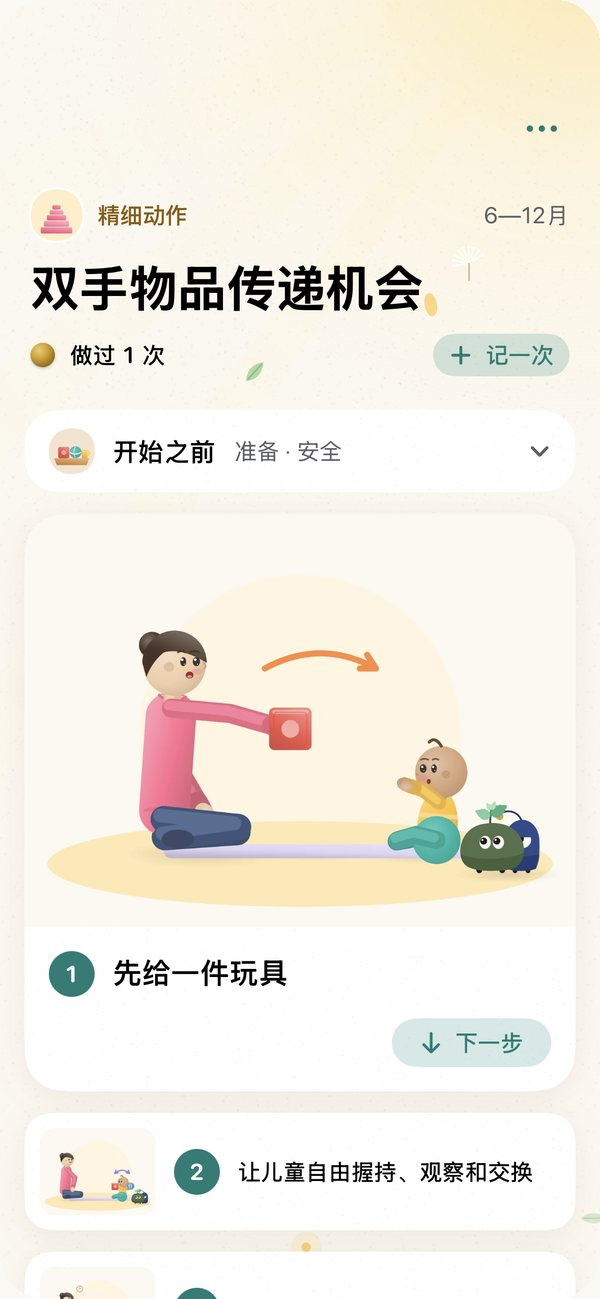
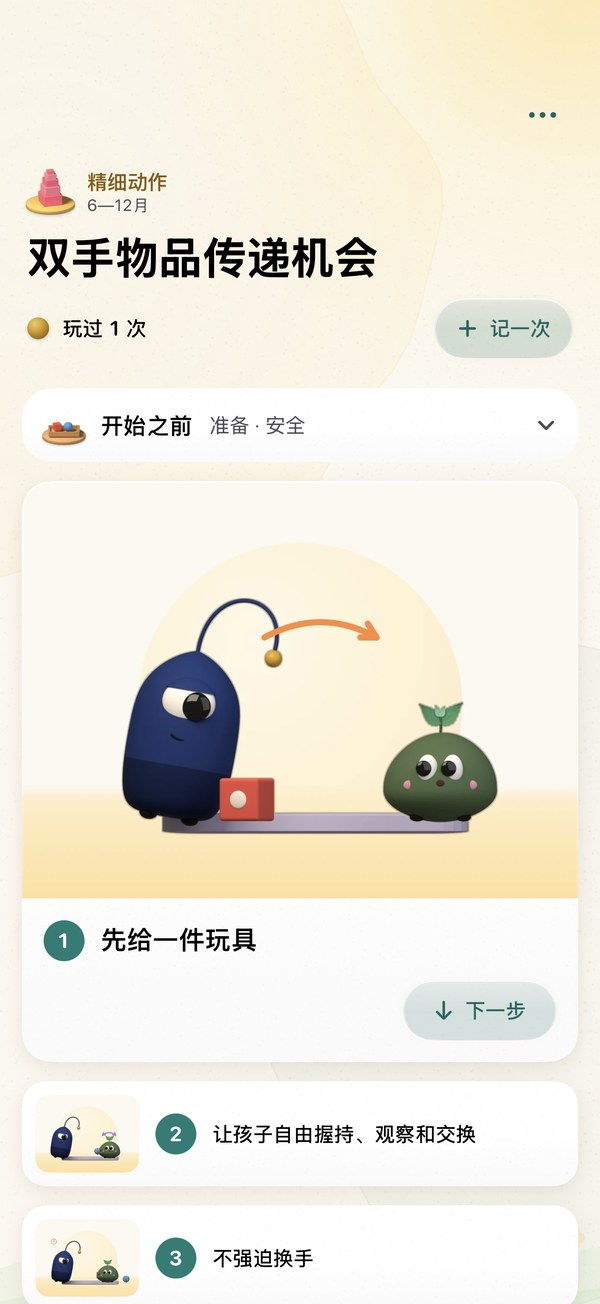
chore: update README & iOS screenshots, bump iOS to 1.0.1, add cloud env setup

diff --git a/README.md b/README.md
@@ -19,51 +19,51 @@
 
 | | 在哪里 | 不做什么 |
 |---|---|---|
-| **一起玩** | 本周的架子：这一周可以摸索的几件教具，点开就是一步步的插画、准备什么、什么时候停下 | 不布置任务，不设打卡 |
-| **看他长大** | 0–36 个月，一个月一站，共 37 站；成长滚轮、成长册、WHO 生长曲线 | 不比较，不做发育诊断 |
-| **记下来**（可选） | 亲喂、瓶喂、睡眠、尿布一点即记，计时显示在锁屏上；亲喂时长、瓶喂奶量、睡眠的统计 | 不上传，不需要账号 |
+| **一起玩** | **今天一起玩**：每天推荐一个这个月适合的活动，第 1 步的插画一眼可见，点开就是一步步的图文、准备什么、什么时候停下；这周另有两三个备选活动，每周自动轮换 | 不布置任务，不设打卡 |
+| **看他长大** | 0–36 个月，一个月一站，共 37 站；蒙氏串珠链成长地图、成长册、WHO 生长曲线、接种与儿保 | 不比较，不做发育诊断 |
+| **记下来**（可选） | 亲喂、瓶喂、睡眠、尿布、辅食、体温、第一次等一点即记，计时显示在锁屏与灵动岛上；亲喂分侧时长、瓶喂奶量、睡眠统计 | 不上传，不需要账号 |
 
 满 36 个月是最后一站，却不是终点：**故事仍在继续。**
 
 ## Moss 与 Otto
 
-两位伙伴不说话，只用眼神和动作陪伴。Moss（摸索）是孩子的好奇心：苔绿色，两只眼睛，头顶薄荷芽，什么都想先摸一下。Otto（台灯）是大人的陪伴：深蓝色，一只大眼睛，头顶一颗金色灯珠，专注又耐心，Moss 摸到哪里，他就把灯往哪里偏一点。家长可以选任意一位作为主伙伴，两位功能完全相同。完整设定见 [docs/IP.md](docs/IP.md)。
+两位伙伴不说话，只用眼神和动作陪伴。Moss（摸索）是孩子的好奇心：苔绿色软石，两只眼睛，头顶一片薄荷芽，什么都想先摸一下。Otto（台灯）是大人的陪伴：深蓝色，一只大眼睛，头顶一颗金色灯珠，专注又耐心，Moss 摸到哪里，他就把灯往哪里偏一点。家长可以选任意一位作为主伙伴，两位功能完全相同。完整设定见 [docs/IP.md](docs/IP.md)。
 
 ---
 
 ## iOS 版
 
-为 iPhone 原生构建（SwiftUI，iOS 26 及以上，液态玻璃设计语言），目前在 TestFlight 测试，公开测试与 App Store 上架准备中。
+为 iPhone 原生构建（SwiftUI，iOS 26 及以上，液态玻璃设计语言 + 3D 哑光软胶画风），**v1.0 已上架 App Store**（一次买断，无广告、无订阅；App Store 链接待补充）。
 
 <p align="center">
   <img src="docs/images/ios/1_opening.jpg" width="31%" alt="首次打开：灯亮起，Moss 在灯下摸索">
-  <img src="docs/images/ios/2_home.jpg" width="31%" alt="本月：月龄与本周的架子">
-  <img src="docs/images/ios/3_play.jpg" width="31%" alt="活动：一步步的插画，Moss 与 Otto 在旁边看">
+  <img src="docs/images/ios/2_home.jpg" width="31%" alt="首页：月龄与今天一起玩">
+  <img src="docs/images/ios/3_play.jpg" width="31%" alt="活动：一步步的 3D 软胶插画，Moss 与 Otto 在旁边看">
 </p>
 <p align="center">
-  <img src="docs/images/ios/4_story.jpg" width="31%" alt="摸索台灯的故事">
-  <img src="docs/images/ios/5_journal.jpg" width="31%" alt="记录：一天的串珠与时间线">
-  <img src="docs/images/ios/6_night.jpg" width="31%" alt="夜灯：夜里喂奶的计时">
+  <img src="docs/images/ios/4_month.jpg" width="31%" alt="月份：0–36 个月要点、活动与接种儿保">
+  <img src="docs/images/ios/5_journal.jpg" width="31%" alt="记录：立体贴纸、一天串珠与合并时间线">
+  <img src="docs/images/ios/6_night.jpg" width="31%" alt="夜灯：夜里亲喂左右侧计时">
 </p>
 
 | 截图 | 说明 |
 |---|---|
-| 首次打开 | 没有文字的开场：Otto 的灯亮起，Moss 在灯下醒来，摸了摸套圈，转头看 Otto。约四秒，只播一次，随时可跳过；开启「减弱动态效果」时静止 |
-| 本月 | 孩子满几个月几天；**本周的架子**是首页的核心：木头矮柜上的托盘、纸签上的名字，每玩一次多一颗金珠；之后是这个月的其他活动、这个月的要点与专题 |
-| 活动 | 开始之前（准备与安全）、一步步的插画、做的时候看什么、什么时候停下；Moss 与 Otto 在每一幅插画里陪着看，做完最后一步时一起笑 |
-| 故事 | 「关于摸索台灯」里讲述名字的含义、能做的三件事，以及 36 个月以后故事仍在继续 |
-| 记录（可选） | 一点即记，时间可精确选择；亲喂左右侧分别计时，可暂停、换边；瓶喂精确到 5 毫升；锁屏实时活动与灵动岛、桌面小组件 |
-| 夜灯 | 晚上自动变成一盏小夜灯：深蓝底、琥珀色光，Otto 的灯珠微亮 |
+| 首次打开 | 没有文字的三幕开场：Otto 的灯亮起，Moss 在灯下醒来，摸了摸套圈，转头看 Otto。约四秒，只播一次，随时可跳过；开启「减弱动态效果」时静止 |
+| 首页 | 孩子满几个月几天、本月接种与儿保进度，以及核心卡片**今天一起玩**：第 1 步插画一眼可见，支持「换一个」与「这周还有」自动轮换；轻点卡片边缘的 Moss 与 Otto 三次可进入「摸索台灯的故事」 |
+| 活动 | 开始之前（准备与安全）、折叠式逐步 3D 软胶插画（46 个活动、146 幅步骤图）、做的时候看什么、什么时候停下；做完最后一步自动记一次 |
+| 月份 | 0–36 个月 37 站与蒙氏串珠链成长地图：每月关注与留意事项、适龄活动、可以留意清单、接种与儿保（已核对 2026 年国家免疫规划）、六个发展领域与成长册 |
+| 记录（可选） | 立体贴纸一点即记，时间精确到分钟；亲喂左右侧分别计时并自动合并为一顿，支持暂停、换边与撤销；瓶喂精确到 5 毫升；支持锁屏实时活动、灵动岛、桌面小组件与「第一次」里程碑 |
+| 夜灯 | 晚上自动切换为小夜灯：深蓝底、暖琥珀光晕与柔光数字，Otto 的灯珠微亮，夜间减少动态打扰 |
 
-**隐私**：不联网、不需要账号，不含广告、统计或第三方 SDK。CI 在模拟器测试中记录应用进程的网络活动（`ios_network.txt`），用来核查这一点。
+**隐私与合规**：完全离线、不联网、不需要账号，不含广告、统计或第三方 SDK；首次打开提供同等权重的「同意 / 不同意」确认卡（不同意仍可浏览全部育儿内容），支持应用内撤回同意、面容 ID 应用锁、iOS 数据保护与本地 JSON/CSV/Markdown 导出。CI 在模拟器测试中持续采集应用进程网络日志（`ios_network.txt`）核查零联网。
 
-**开发**：`ios/project.yml`（XcodeGen）；CI `.github/workflows/ios.yml` 运行单元测试、截图测试与无障碍审查，截图发布到 `screens-ios` 分支，并上传 TestFlight。设计说明见 [ios/DESIGN.md](ios/DESIGN.md)，路线图见 [ios/ROADMAP.md](ios/ROADMAP.md)。
+**开发**：`ios/project.yml`（XcodeGen）；CI [`.github/workflows/ios.yml`](.github/workflows/ios.yml) 运行单元测试、截图测试（含 6.9 英寸 App Store 截图产物）、无障碍审查与滚动性能测试，并在合入 `main` 时自动上传 TestFlight。设计说明见 [ios/DESIGN.md](ios/DESIGN.md)，合规对照表见 [ios/COMPLIANCE.md](ios/COMPLIANCE.md)，路线图见 [ios/ROADMAP.md](ios/ROADMAP.md)。
 
 ---
 
 ## 安卓版
 
-适用于 Android 8.0 及以上。[下载最新版本](https://github.com/mjuvdeysii/mossling/releases/latest)。
+适用于 Android 8.0 及以上，已更新至 **v1.5.0**（原生 Jetpack Compose + Material Design 3）。[下载最新版本](https://github.com/mjuvdeysii/mossling/releases/latest)。
 
 <p align="center">
   <img src="docs/images/android/1_welcome.jpg" width="31%" alt="欢迎页">
@@ -78,18 +78,18 @@
 
 | 截图 | 说明 |
 |---|---|
-| 欢迎页 | 孩子摸索，大人点灯；填写出生日期，或先看看 |
-| 本周的架子 | 这一周放上架子的几件教具，以及怎么用这个架子 |
-| 教具 | 蒙台梭利式的家庭教具，按月龄出现 |
-| 手帐（可选） | 亲喂、瓶喂（精确到 5 毫升）、睡眠、尿布等；通知栏计时，可暂停、换边；桌面小组件 |
-| 统计 | 喂养次数、亲喂时长、睡眠与尿布 |
-| 生长曲线 | 世界卫生组织儿童生长标准（2006），百分位带与中位数 |
+| 欢迎页 | 孩子摸索，大人点灯；无字三镜头开场、填写出生日期或先看看 |
+| 本周的架子 | 横向顺滑木质托盘展示本周自动轮换的活动，支持「还没玩过」与六大领域筛选 |
+| 教具 | 46 个蒙台梭利式家庭活动、146 幅分步插画，支持全屏「跟着做」手势翻步与屏幕常亮 |
+| 手帐（可选） | 亲喂分侧计时、瓶喂（精确到 5 毫升）、睡眠、尿布、体温就医提示与「第一次」里程碑；通知栏计时与桌面小组件 |
+| 统计 | 喂养次数、亲喂时长、睡眠与尿布趋势，以及按类别筛选的时间线 |
+| 生长曲线 | 世界卫生组织儿童生长标准（2006），支持「当前阶段 / 0–36 月全貌」切换与交互式点位检视 |
 
-此外还有「今天」（月龄、今天的一个活动）、「成长」（0–36 个月串珠、每月要点、成长地图、专题与搜索）和 46 个家庭活动、146 幅分步插画。
+此外还有「今天」（照护状态胶囊、今日一件事）、「成长」（本月 / 地图 / 专题三段式工作台、成长册画册与时间轴双模式）与按六大领域发现的搜索页。
 
 **隐私**：不需要账号，不收集、不上传任何数据；只在用户主动点「检查更新」时联网。
 
-**开发**：`gradle :app:assembleDebug`（Gradle 8.9、JDK 17、Android SDK 35）。CI `build.yml` 运行单元测试与 Paparazzi 截图（`screens` 分支），`VERSION` 中的版本尚未发布时构建签名 APK 并发布；`emulator.yml` 在模拟器上运行关键路径测试。签名密钥来自 GitHub Secrets，不在仓库中。
+**开发**：`gradle :app:assembleDebug`（Gradle 8.9、JDK 17、Android SDK 35）。CI [`build.yml`](.github/workflows/build.yml) 运行单元测试与 Paparazzi 截图（`screens` 分支），`VERSION` 中的版本尚未发布时构建签名 APK 并发布；[`emulator.yml`](.github/workflows/emulator.yml) 在模拟器上运行关键路径测试。签名密钥来自 GitHub Secrets，不在仓库中。
 
 ---
 
